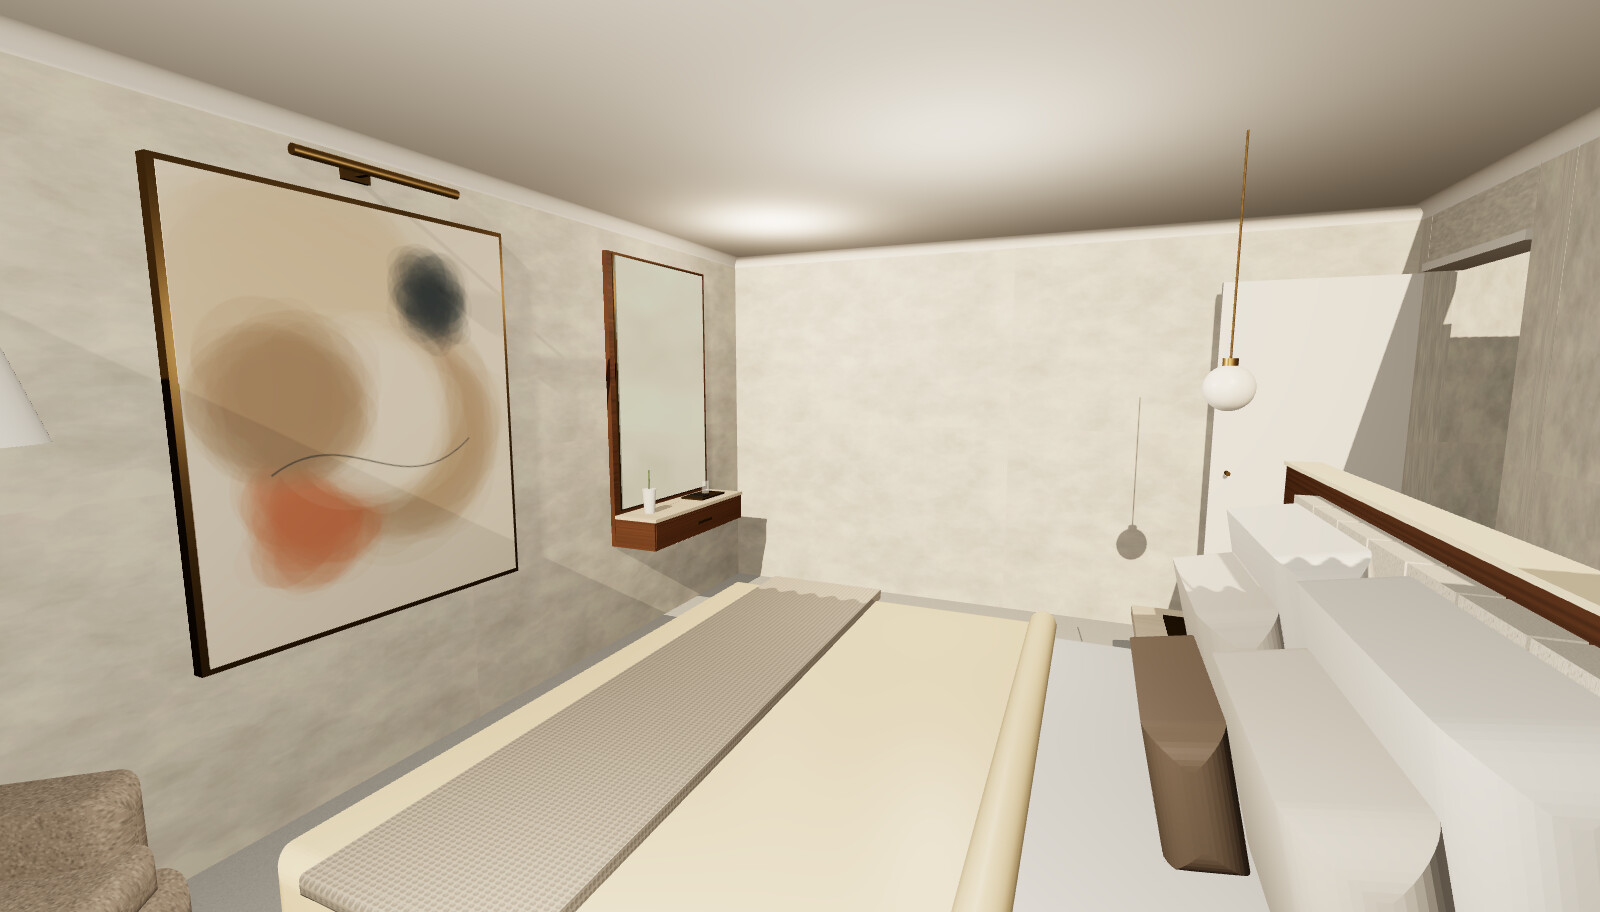
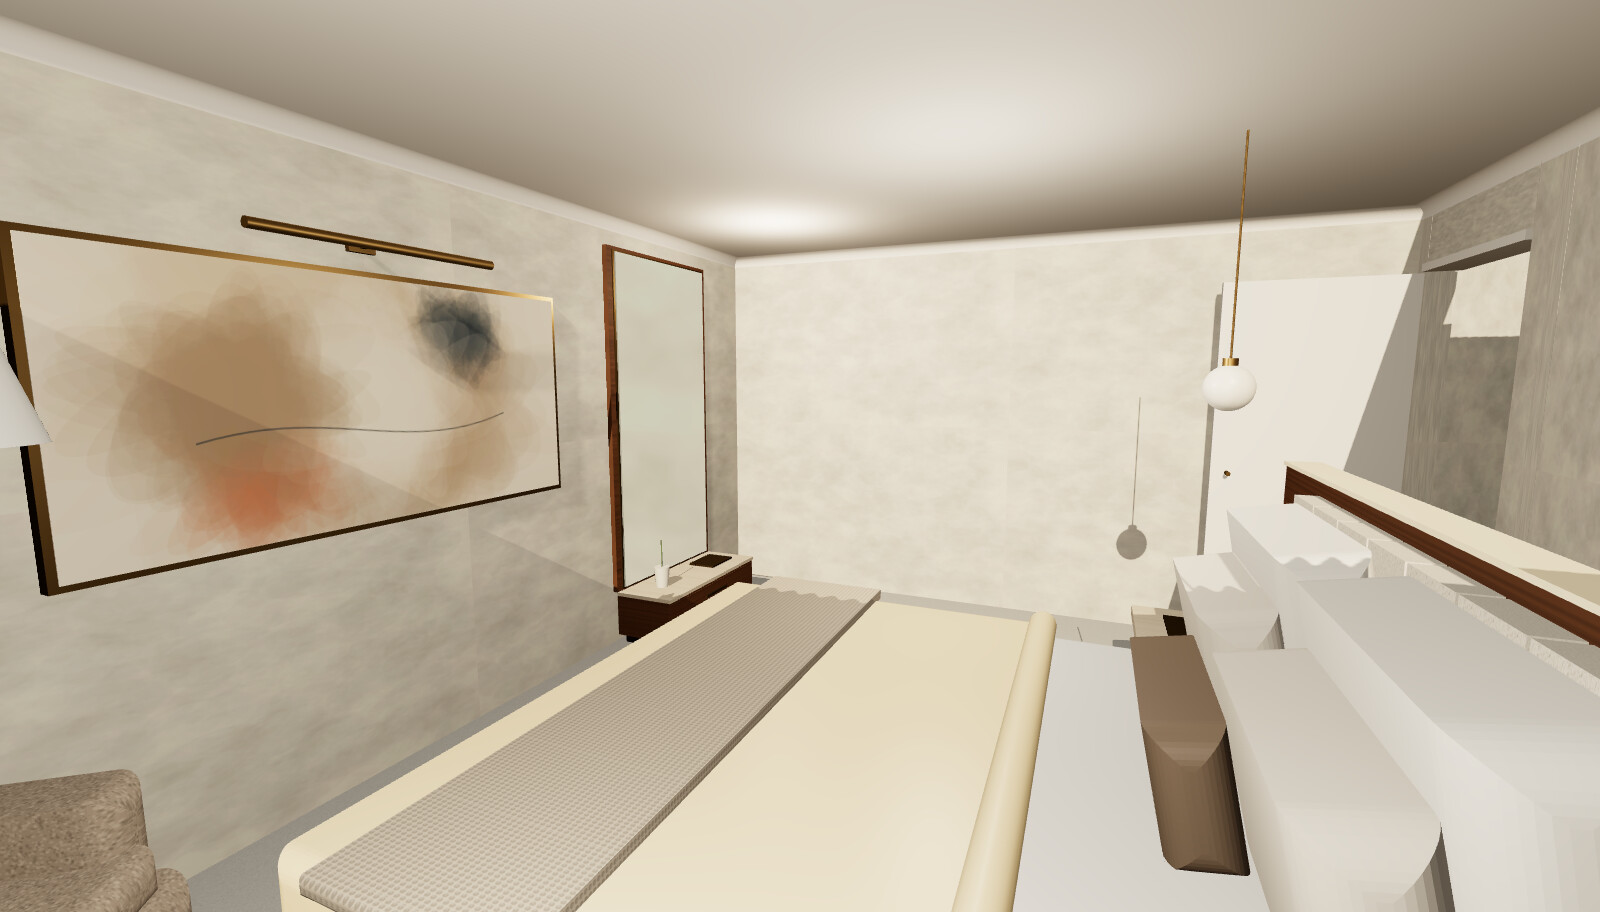
Tall mirror on floor-level drawer plinth; wide landscape artwork
Claude-Session: https://claude.ai/code/session_01P4LkCESWoGV8P5QgBbWSmy

diff --git a/renders/bedroom-1-3d.html b/renders/bedroom-1-3d.html
@@ -168,7 +168,7 @@ box(2.8,3.08,0.56,0.57,1.5,1.75,brass); cyl(3.0,0.62,1.7,0.05,0.05,0.04,brass).r
 
 // ---------- West wall: plain limewash plaster (no panelling, no TV) ----------
 // Large abstract artwork centred on bed (z 2.85): 1.2m wide x 1.5m high, bottom 0.65m, thin brass floater frame, brass picture light
-{ const ART=P.get('art')||'portrait'; const AW=ART==='landscape'?1.8:1.2, AH=ART==='landscape'?0.9:1.5, AB=ART==='landscape'?1.0:0.65, ZC=2.85, LY=AB+AH+0.1;
+{ const ART=P.get('art')||'landscape'; const AW=ART==='landscape'?1.8:1.2, AH=ART==='landscape'?0.9:1.5, AB=ART==='landscape'?1.0:0.65, ZC=2.85, LY=AB+AH+0.1;
   const art=canvasTex(ART==='landscape'?900:600,ART==='landscape'?450:750,(g,w,h)=>{ g.fillStyle=PAL.art[0]; g.fillRect(0,0,w,h); const r=rnd(41);
     const blobs=[[PAL.art[1],0.35,0.3,0.42],[PAL.art[2],0.62,0.55,0.34],[PAL.art[3],0.3,0.72,0.16],[PAL.art[4],0.7,0.2,0.1],[PAL.art[5],0.5,0.5,0.25],[PAL.art[6],0.25,0.45,0.2]];
     for(const [c,x,y,rr] of blobs){ for(let i=0;i<60;i++){ g.globalAlpha=0.05+r()*0.06; g.fillStyle=c; g.beginPath(); g.ellipse(x*w+(r()-0.5)*w*0.15,y*h+(r()-0.5)*h*0.15,rr*w*(0.6+r()*0.5),rr*h*(0.4+r()*0.4),r()*3,0,7); g.fill(); } }
@@ -196,23 +196,22 @@ box(1.33,1.5,0.54,0.57,4.48,4.66,mat('#bfc3c6',0.8)); cyl(1.52,0.58,4.62,0.04,0.
 cyl(0.15,0.75,3.95,0.012,0.012,1.5,brass,8); cyl(0.15,0.01,3.95,0.12,0.14,0.02,brass);
 cyl(0.15,1.5,3.95,0.12,0.18,0.22,mat('#f4f4f2',0.9,0,{side:THREE.DoubleSide}),32);
 
-// ---------- Dressing spot: integrated wall-hung mirror + drawer unit on west wall, north end (z 0.5-1.5) ----------
-// walnut backing panel 1.0m wide, from 0.57m to 2.22m; floor below left clear
-box(0,0.03,0.57,2.22,0.5,1.5,walnut);
-// drawer: 1.0m wide x 0.3m deep x 0.18m high, top at 0.75m, travertine top, brass pull, soft under-glow
-box(0.03,0.3,0.57,0.73,0.5,1.5,walnut);
-box(0.3,0.305,0.585,0.715,0.51,1.49,walnut);
-box(0.305,0.32,0.64,0.655,0.92,1.08,brass);
-box(0.03,0.31,0.73,0.75,0.5,1.5,travertine);
-box(0.04,0.29,0.565,0.57,0.52,1.48,mat('#fff2d4',0.5,0,{emissive:'#ffcf8a',emissiveIntensity:0.4}),false,false);
-// styling on drawer top: brass tray with comb + perfume, bud vase
-box(0.08,0.24,0.75,0.762,0.62,0.9,brass); cyl(0.14,0.8,0.7,0.025,0.025,0.08,mat('#e9efe9',0.1,0,{transparent:true,opacity:0.6})); box(0.1,0.22,0.762,0.77,0.78,0.86,mat('#2c2b2a',0.5));
-cyl(0.16,0.82,1.35,0.04,0.03,0.14,mat('#f1f1ef',0.5)); cyl(0.16,0.94,1.35,0.003,0.003,0.12,mat('#6b7f58',0.8),6);
-// mirror inset above drawer: 0.9m wide x 1.42m high (0.78m to 2.2m), thin brass edge
-box(0.03,0.04,0.77,2.21,0.54,1.46,brass);
+// ---------- Dressing spot: tall mirror standing on a floor-level drawer plinth, west wall north end (z 0.5-1.5) ----------
+// walnut backing panel 1.0m wide, from 0.3m to 2.25m
+box(0,0.03,0.3,2.25,0.5,1.5,walnut);
+// floor-level drawer plinth: 1.0m wide x 0.35m deep x 0.3m high, recessed toe-kick, travertine top, brass pull
+box(0.06,0.36,0,0.05,0.53,1.47,mat('#2e1d12',0.7));                      // recessed toe-kick
+box(0.03,0.38,0.05,0.28,0.5,1.5,walnut);                                 // drawer box
+box(0.38,0.385,0.065,0.265,0.51,1.49,walnut);                            // drawer front
+box(0.385,0.4,0.2,0.215,0.88,1.12,brass);                                // long brass pull
+box(0.03,0.39,0.28,0.3,0.5,1.5,travertine);                              // stone top
+// styling on plinth top: small brass tray, bud vase
+box(0.1,0.28,0.3,0.312,0.6,0.85,brass); cyl(0.2,0.36,1.3,0.045,0.035,0.12,mat('#efe9df',0.5)); cyl(0.2,0.5,1.3,0.003,0.003,0.16,mat('#6b7f58',0.8),6);
+// tall mirror above plinth: 0.9m wide x 1.9m high (0.32m to 2.22m), thin brass edge
+box(0.03,0.04,0.31,2.23,0.54,1.46,brass);
 const cubeRT=new THREE.WebGLCubeRenderTarget(512); const cubeCam=new THREE.CubeCamera(0.05,20,cubeRT);
 const mirrorM=mat('#c9d2d4',0.03,1.0,{envMap:cubeRT.texture});
-const mirror=box(0.04,0.05,0.78,2.2,0.55,1.45,mirrorM,false,false);
+const mirror=box(0.04,0.05,0.32,2.22,0.55,1.45,mirrorM,false,false);
 
 // ---------- Lighting: morning sun through south window ----------
 scene.add(new THREE.HemisphereLight('#fff8ee','#a08a70',0.55));
